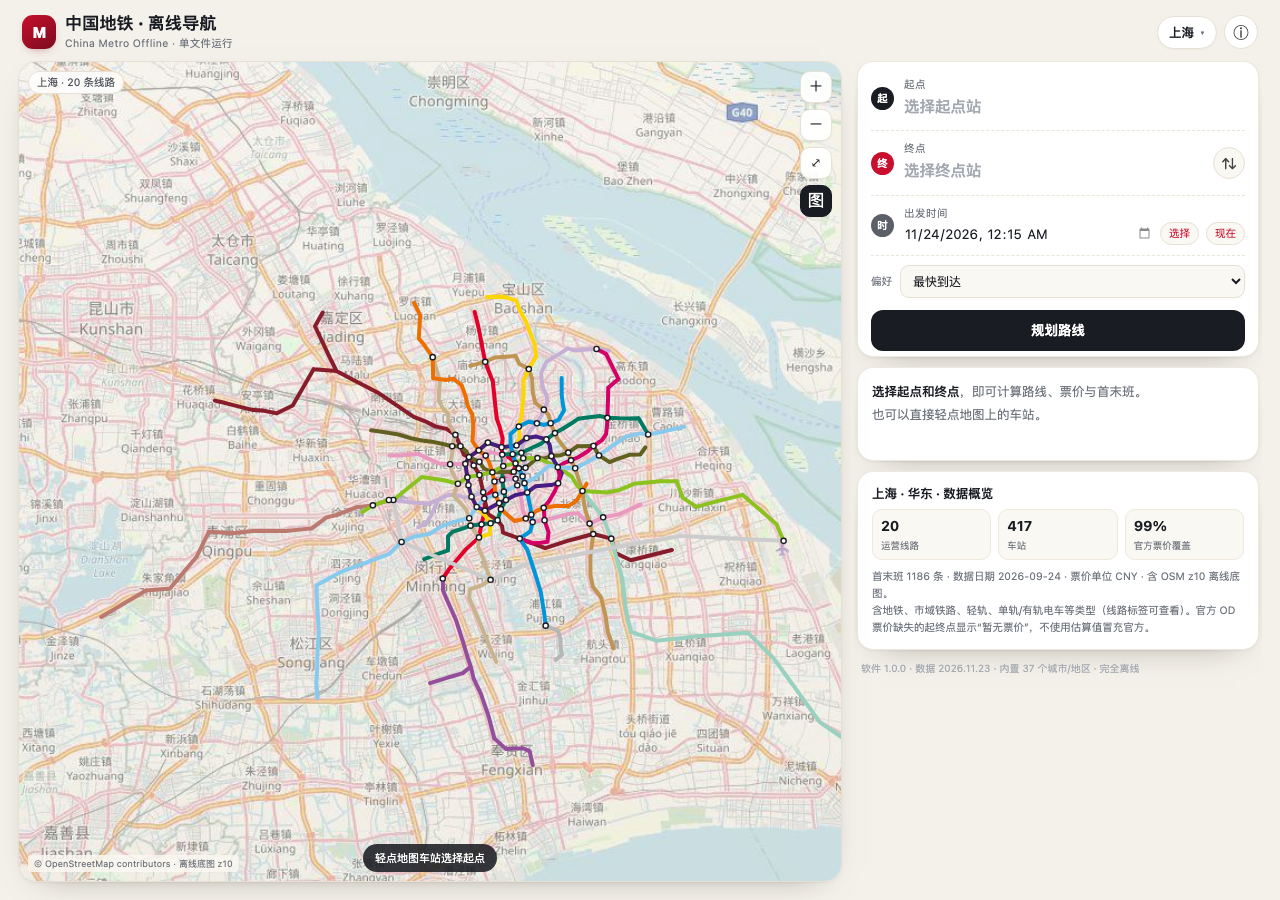
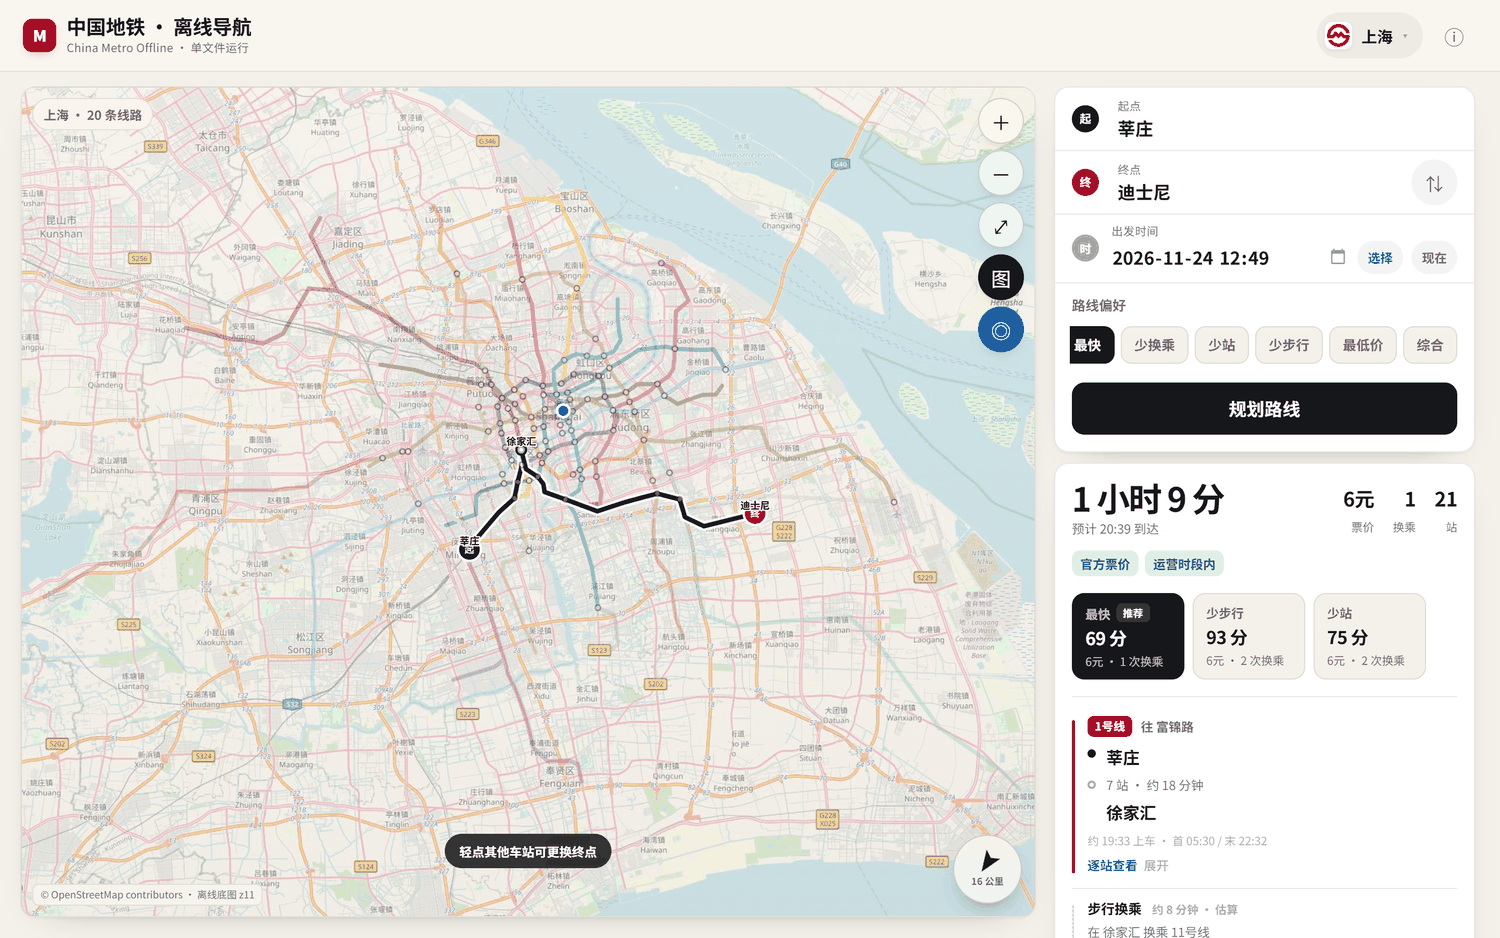
docs: 更新 README 至 v1.5.0（界面结构、三段式面板、结果卡、构建与标识流程）
- 新增界面结构章节与桌面/移动/深色截图
- 更新特性列表、项目结构、维护脚本与许可说明
- 修正过期的 GitHub Actions 描述

diff --git a/README.md b/README.md
@@ -14,11 +14,13 @@
 
 `ChinaMetro.html` 把页面、CSS、JavaScript、全国城市线路、站点、票价、首末班时刻和路线算法全部内置。双击即可打开，不依赖网络、CDN、外部 JSON、后端服务或任何安装步骤。
 
-![桌面端](assets/screenshot-desktop.png)
+| 桌面端 | 移动端（半屏面板） |
+|---|---|
+| ![桌面端](assets/screenshot-desktop.png) | ![移动端](assets/screenshot-panel.png) |
 
 ## 核心特性
 
-- **真正单文件**：`ChinaMetro.html` 约 22.7 MB，包含 37 个城市/地区、339 条线路、6,464 个车站、7,572 个 Stop、14,789 条首末班记录，以及 37 张 OSM 离线底图（1,271 张瓦片，按城市范围取 z10–z15）。
+- **真正单文件**：`ChinaMetro.html` 约 23.1 MB，包含 37 个城市/地区、339 条线路、6,464 个车站、7,572 个 Stop、14,789 条首末班记录、37 个城市官方标识，以及 37 张 OSM 离线底图（1,271 张瓦片，按城市范围取 z10–z15）。
 - **完全离线**：没有任何 `fetch`、`XMLHttpRequest`、WebSocket、外部脚本/样式/字体/图片；直接 `file://` 打开可用。上海 OSM 瓦片也已内嵌。
 - **城市切换**：内置城市搜索、拼音/英文搜索、热门城市列表。
 - **路线规划**：最快、少换乘、少站、少步行、最低票价、综合推荐六种偏好。
@@ -36,13 +38,25 @@
 - **城市官方标识**：城市按钮与城市列表左侧显示各城市地铁系统的官方 logo（37 城全部内嵌，离线可用）。
 - **指向起点**：选定起点后地图右下角出现罗盘按钮（实时距离 + 指针）；点开是全屏指向界面——绿色渐变、大箭头、距离与「右前方」等方位文案，有设备罗盘时按朝向旋转，没有则按北向朝上。
 - **移动优先**：手机竖屏、横屏、平板和桌面布局；无外部字体、图标依赖。
-- **界面按 Apple HIG 重构**：语义化颜色/字号/间距令牌、inset-grouped 卡片、底部半模态面板（抓手 + 标题栏）、44 pt 以上触控目标、`prefers-reduced-motion` 与 `prefers-contrast` 适配。
+- **三段式底部面板**：收起（96 px）/ 半屏 / 展开三档吸附，拖动抓手切换；地图可视区随面板实时调整并重新贴合城市，保证地图始终有合理面积。
+- **结果卡先结论后细节**：顶部摘要给出总耗时、预计到达、票价、换乘次数、站数；方案卡片带「推荐」标识；每段显示线路、方向、上/下车站、站数与首末班，步行换乘以虚线轨单独区分。
+- **地图降噪**：选中路线时其余线路降透明度到 38%，起点/终点/换乘站统一视觉规范；底图瓦片保持低对比度，路线与站名优先。
+- **界面按 Apple HIG 重构**：语义化颜色/字号/间距/圆角令牌、inset-grouped 卡片、半模态面板、44 pt 以上触控目标、分段控件、加载反馈、`prefers-reduced-motion` 与 `prefers-contrast` 适配。
 - **深色模式**：跟随系统外观，卡片/面板/文字自动适配，离线底图反相降饱和后仍可辨读。
 - **可嵌入**：不读取父页面变量、不修改父页面样式；可在 iframe / WebView 中运行。
 
-![移动端](assets/screenshot-mobile.png)
+深色模式（跟随系统外观）：
+
+![深色模式](assets/screenshot-dark.png)
 
 各模块显示测试的 14 张截图在 `display/`，逐项说明见 [DISPLAY_TESTS.md](DISPLAY_TESTS.md)。
+
+## 界面结构
+
+- **地图层**：全屏离线底图 + 线路/站点/路线叠层。选中路线时其余线路降到 38% 透明度；起点、终点、换乘站分别用统一的大圆点、白底描边小圆点表示；拖动/缩放/定位/底图开关完整保留。
+- **底部面板（移动端）**：三档吸附——收起（96 px，只有抓手）/ 半屏 / 展开。拖动抓手切换，点击抓手在收起与半屏之间切换；面板高度变化时地图重新贴合当前城市。
+- **结果卡**：摘要（耗时、到达时间、票价、换乘、站数）→ 方案卡片（横向滚动，首个可行方案标「推荐」）→ 分段详情（线路、方向、上/下车站、站数、首末班）→ 估算与数据来源说明。
+- **控件**：六种路线偏好为可横向滚动的分段控件；主操作为深色填充按钮，规划时显示加载态；所有主要控件触控区 ≥ 44 pt。
 
 ## 快速开始
 
@@ -50,7 +64,7 @@
 2. 双击用 Chrome / Edge / Safari 打开。
 3. 选择城市、起点、终点，点击“规划路线”。
 
-如需发布到 GitHub Pages：仓库已包含 `.github/workflows/pages.yml`，在 Settings → Pages 选择 GitHub Actions，推送 `main` 后自动部署；根目录 `index.html` 会跳转到 `ChinaMetro.html`。
+发布到 GitHub Pages：仓库已在 Settings → Pages 中选择从 `main` 分支根目录发布；推送后自动更新，根目录 `index.html` 会跳转到 `ChinaMetro.html`。
 
 无需服务器。若浏览器限制 `file://` 的某些能力，可选用本地静态服务器（可选，不是运行前提）：
 
@@ -123,16 +137,24 @@ python3 -m http.server 8000
 china-metro-offline/
 ├── ChinaMetro.html          # 最终单文件程序（唯一运行必需文件）
 ├── index.html               # GitHub Pages 入口（跳转到 ChinaMetro.html）
-├── china_db.json            # 可编辑的全国数据源（构建输入）
-├── app_template.html        # 应用模板（含 UI/算法）
+├── china_db_base.json       # 原始数据快照（若干工具的输入）
+├── china_db.json            # 构建用全国数据源（含底图与坐标；体积大，未入库，按需生成）
+├── app_template.html        # 应用模板（含 UI/样式/算法/内嵌标识与底图占位）
 ├── tools/
 │   ├── build.py             # 将 china_db.json 注入模板，生成 ChinaMetro.html
 │   ├── validate.py          # 数据完整性校验
+│   ├── upgrade_tiles.py     # 按城市跨度抓取/拼接 OSM 底图（z10–z15）
+│   ├── fix_coord_datum.py   # 车站坐标 GCJ-02 → WGS-84
+│   ├── embed_logos.py       # 把 assets/logos/ 下的官方标识内嵌进模板
+│   ├── attach_city_tiles.py # 只给单个城市补更高 zoom 的底图
 │   └── test_app.mjs         # Playwright 自动化测试
-├── assets/                  # README 截图
+├── assets/
+│   ├── logos/               # 37 城官方标识（PNG + 来源清单 index.json）
+│   └── screenshot-*.png     # README 截图
 ├── DATA_SOURCES.md
 ├── TEST_REPORT.md
 ├── CHANGELOG.md
+├── NOTICE.md
 ├── AUDIT.md
 └── README.md
 ```
@@ -140,14 +162,22 @@ china-metro-offline/
 ## 构建与测试
 
 ```bash
-# 生成 ChinaMetro.html
+# 1) 生成 ChinaMetro.html（把数据库注入模板）
 python3 tools/build.py
 
-# 结构校验：城市/线路/站点/区间/换乘/时刻/票价/连通性
+# 2) 结构校验：城市/线路/站点/区间/换乘/时刻/票价/连通性
 python3 tools/validate.py
 
-# 自动化测试（需要开发环境中的 Playwright；运行时不依赖）
+# 3) 自动化测试（需要开发环境中的 Playwright；运行时不依赖）
 node tools/test_app.mjs
+```
+
+可选的维护脚本（都在 `tools/` 下，非运行必需）：
+
+```bash
+python3 tools/fix_coord_datum.py               # 车站坐标 GCJ-02 → WGS-84（幂等）
+python3 tools/upgrade_tiles.py --max-mp 4      # 重新抓取/拼接 37 城离线底图
+python3 tools/embed_logos.py                   # 重新内嵌 assets/logos/ 下的城市标识
 ```
 
 测试通过后会生成 `test_results.json`，并更新/参照 `TEST_REPORT.md`。
@@ -162,16 +192,19 @@ node tools/test_app.mjs
 - 地图：底图 zoom 按城市范围自动选择（大城市 z11–z12，小城市 z13，澳门 z15），城市越大放大后越容易发虚；放大到极限后仍会模糊，未接入在线瓦片。可用 `tools/upgrade_tiles.py --max-mp 8` 再提高单城面积预算，代价是单文件更大。
 - 线路图层与底图、站点同处一个世界坐标组，拖动/缩放只改一次 `transform`，线宽按 `1/k` 补偿：既不会出现放大时线路消失，也不会出现拖动时线路不跟随。
 - 车站坐标已从 GCJ-02 转为 WGS-84（`tools/fix_coord_datum.py`），与 OSM 底图对齐；转换前的偏移在城市尺度约 300–700 m。
+- 移动端面板切换档位时地图会重新贴合当前城市（不是保持原缩放）；拖动或缩放后切换档位会回到适配视野。
 - 香港/澳门票价单位分别为 HKD / MOP；部分 OD 票价缺失显示“暂无票价”。
 
 ## 数据来源与许可
 
 - 城市拓扑、时刻、票价来自 **Open Metro** 中国城市数据集（`Naptie/openmetro`），其上游来源包括各城市地铁运营方、官方路径规划器、开放交通数据等。
 - 本项目的应用代码采用 MIT；Open Metro 代码/数据及其上游数据的授权请见 `DATA_SOURCES.md` 与 `NOTICE` 说明。
+- 离线底图 © OpenStreetMap contributors，ODbL 1.0；来源为 OSM 德国镜像与法国镜像，构建后按城市拼成单张图内嵌。
+- 37 个城市官方标识来自 Wikimedia Commons 与中英文维基百科（公有领域 / CC BY / CC BY-SA / fair use），逐条来源见 `assets/logos/index.json`；标识为各运营方注册商标，仅作指称性使用。
 - 本项目为非官方工具，与各城市地铁运营方无隶属关系。实际票价、运营时刻、临时调整以官方公告为准。
 
 ## 版本
 
-- 软件版本：`1.0.0`
+- 软件版本：`1.5.0`
 - 数据版本：`2026.11.23`
 - 数据日期：各城市卡片显示（多数为 2026-09 至 2026-10）
